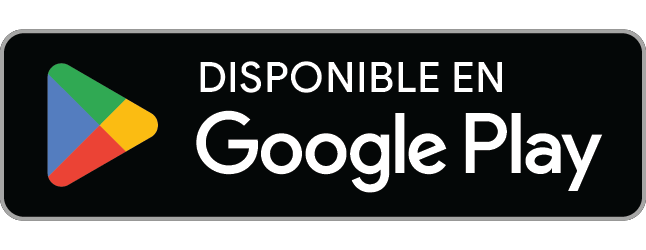
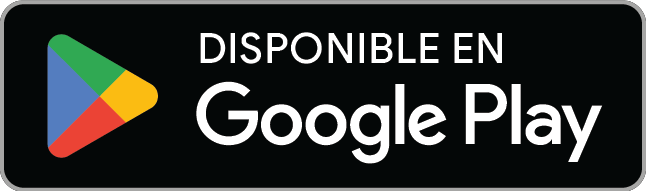
fix: adjust dimensions of Google Play badges for consistency across platforms

diff --git a/es/index.html b/es/index.html
@@ -124,7 +124,7 @@
         <div class="store-badges">
           <a href="https://play.google.com/store/apps/details?id=com.nipaplayer.app" target="_blank" rel="noopener" class="store-badge-link">
             <img src="/assets/badges/google-play-es.png" alt="Disponible en Google Play" class="badge-gplay"
-              width="646" height="250">
+              width="646" height="191">
           </a>
           <a href="https://apps.apple.com/es/app/nipa-player-iptv-m3u/id6760720773" target="_blank" rel="noopener" class="store-badge-link">
             <img src="/assets/badges/app-store-es.svg" alt="Descárgalo en el App Store" class="badge-appstore"
@@ -404,7 +404,7 @@
       <div class="cta-buttons store-badges" style="justify-content: center;">
         <a href="https://play.google.com/store/apps/details?id=com.nipaplayer.app" target="_blank" rel="noopener" class="store-badge-link">
           <img src="/assets/badges/google-play-es.png" alt="Disponible en Google Play" class="badge-gplay"
-            width="646" height="250" loading="lazy">
+            width="646" height="191" loading="lazy">
         </a>
         <a href="https://apps.apple.com/es/app/nipa-player-iptv-m3u/id6760720773" target="_blank" rel="noopener" class="store-badge-link">
           <img src="/assets/badges/app-store-es.svg" alt="Descárgalo en el App Store" class="badge-appstore"

diff --git a/index.html b/index.html
@@ -122,7 +122,7 @@
         <div class="store-badges">
           <a href="https://play.google.com/store/apps/details?id=com.nipaplayer.app" target="_blank" rel="noopener" class="store-badge-link">
             <img src="/assets/badges/google-play-en.png" alt="Get it on Google Play" class="badge-gplay"
-              width="646" height="250">
+              width="563" height="168">
           </a>
           <a href="https://apps.apple.com/es/app/nipa-player-iptv-m3u/id6760720773" target="_blank" rel="noopener" class="store-badge-link">
             <img src="/assets/badges/app-store-en.svg" alt="Download on the App Store" class="badge-appstore"
@@ -402,7 +402,7 @@
       <div class="cta-buttons store-badges" style="justify-content: center;">
         <a href="https://play.google.com/store/apps/details?id=com.nipaplayer.app" target="_blank" rel="noopener" class="store-badge-link">
           <img src="/assets/badges/google-play-en.png" alt="Get it on Google Play" class="badge-gplay"
-            width="646" height="250" loading="lazy">
+            width="563" height="168" loading="lazy">
         </a>
         <a href="https://apps.apple.com/es/app/nipa-player-iptv-m3u/id6760720773" target="_blank" rel="noopener" class="store-badge-link">
           <img src="/assets/badges/app-store-en.svg" alt="Download on the App Store" class="badge-appstore"

diff --git a/assets/css/styles.css b/assets/css/styles.css
@@ -379,9 +379,8 @@ img {
   border-radius: 8px;
 }
 
-/* Official store badge artwork. Apple's SVG has no padding (54px tall);
-   Google's PNG ships with built-in clear space, so it renders at 80px with
-   negative margins to visually match the Apple badge height. */
+/* Official store badge artwork, both cropped to their visible edges so they
+   render at the same height. */
 .store-badge-link .badge-appstore {
   display: block;
   height: 54px;
@@ -390,9 +389,8 @@ img {
 
 .store-badge-link .badge-gplay {
   display: block;
-  height: 80px;
+  height: 54px;
   width: auto;
-  margin: -13px;
 }
 
 .store-badge {
